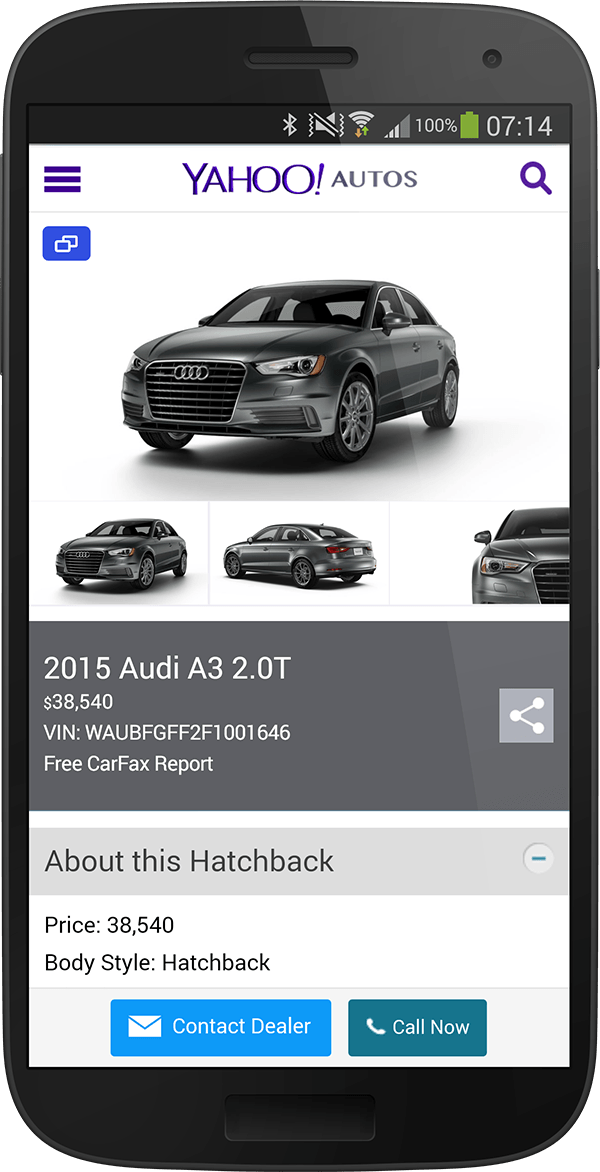
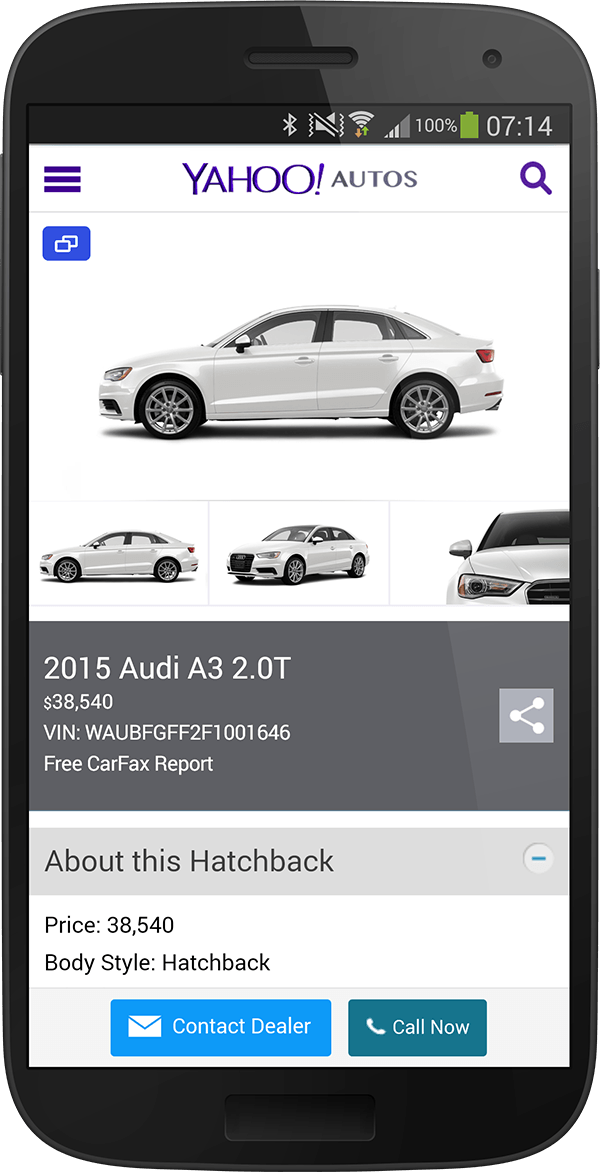
Autos tweaks
Updating phone images and reducing the left/right padding on the set

Changed region(s): [[0.06, 0.215, 0.84, 0.5222], [0.75, 0.43, 0.96, 0.5222]]

diff --git a/yahoo-autos.html b/yahoo-autos.html
@@ -84,10 +84,10 @@
 	<div class="row work"><!-- spacer -->
 		<div class="col-xs-12 spacer"></div>
 	</div>
-	<div class="row tiles work" style="padding-bottom:20px; padding-left:10px; padding-right:10px;"><!-- work -->
-		<div class="col-xs-4 col-sm-4 col-md-4 col-lg-4 nopadding five"><img style="max-width:300px;" src="img/work-autos-1.png" alt="..."></div>
-		<div class="col-xs-4 col-sm-4 col-md-4 col-lg-4 nopadding five"><img style="max-width:300px;" src="img/work-autos-2.png" alt="..."></div>
-		<div class="col-xs-4 col-sm-4 col-md-4 col-lg-4 nopadding five"><img style="max-width:300px;" src="img/work-autos-3.png" alt="..."></div>
+	<div class="row work narrow"><!-- work -->
+		<div class="col-xs-4 col-sm-4 col-md-4 col-lg-4 nopadding ten"><img style="max-width:300px;" src="img/work-autos-1.png" alt="..."></div>
+		<div class="col-xs-4 col-sm-4 col-md-4 col-lg-4 nopadding ten"><img style="max-width:300px;" src="img/work-autos-2.png" alt="..."></div>
+		<div class="col-xs-4 col-sm-4 col-md-4 col-lg-4 nopadding ten"><img style="max-width:300px;" src="img/work-autos-3.png" alt="..."></div>
 	</div>
 
 	<div class="row"><!-- spacer -->

diff --git a/css/base.css b/css/base.css
@@ -136,6 +136,34 @@ body {
 	padding-bottom: 15px;
 }
 
+.ten { /*   this is here to space out the autos s4 images   */
+	padding-right: 10px;
+	padding-left: 10px;
+}
+
+.narrow { /*   this is here to space in the autos s4 images   */
+	padding-right:110px;
+	padding-left:110px;
+	padding-bottom:20px;
+}
+
+@media (max-width:1200px) {
+.narrow { /*   this is here to space in the autos s4 images   */
+	padding-right:10px;
+	padding-left:10px;
+	padding-bottom:20px;
+}
+}
+
+@media (max-width:1024px) {
+.narrow { /*   this is here to space in the autos s4 images   */
+	padding-right:5px;
+	padding-left:5px;
+	padding-bottom:20px;
+}
+}
+
+
 .work {
 	background-color: #ececec;
 	text-align: center;
